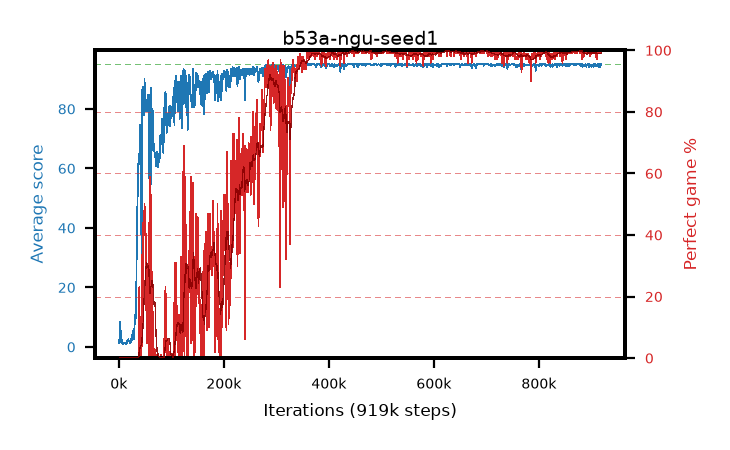
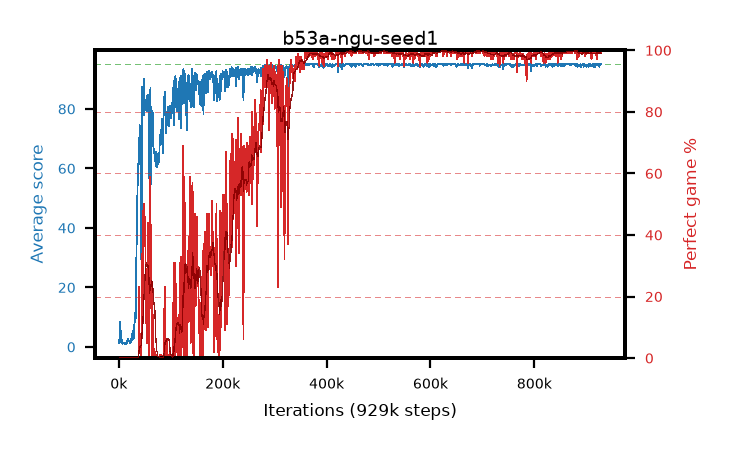
live pictures of 4 arm(s)

diff --git a/results/b53a-ngu-seed1/b53a-ngu-seed1.md b/results/b53a-ngu-seed1/b53a-ngu-seed1.md
@@ -1,6 +1,6 @@
 # b53a-ngu-seed1
 
-step **919,000** · 919 evals · trailing **94.7** · peak **94.96** @643,000 · sef **69.4** · best30 **99.7** @643,000
+step **929,000** · 929 evals · trailing **94.75** · peak **94.96** @643,000 · sef **69.8** · best30 **99.7** @643,000
 
 ## Config
 
@@ -80,15 +80,15 @@ step **919,000** · 919 evals · trailing **94.7** · peak **94.96** @643,000 ·
 | 2000 | 8.43 | 4.84 | 0.0 | 21.0 | 7.201 | 0.0 | 0.4 |
 | 3000 | 8.52 | 6.07 | 0.0 | 26.0 | 5.525 | 0.0 | 0.4 |
 | ... | ... | ... | ... | ... | ... | ... | ... |
-| 908000 | 95.0 | 94.74 | 95.0 | 95.0 | 193.664 | 100.0 | 0.4 |
-| 909000 | 94.78 | 94.75 | 73.0 | 95.0 | 192.456 | 99.0 | 0.4 |
-| 910000 | 94.24 | 94.73 | 30.0 | 95.0 | 189.885 | 97.0 | 0.4 |
-| 911000 | 94.89 | 94.72 | 88.0 | 95.0 | 191.537 | 98.0 | 0.4 |
-| 912000 | 95.0 | 94.72 | 95.0 | 95.0 | 193.706 | 100.0 | 0.4 |
-| 913000 | 94.98 | 94.75 | 93.0 | 95.0 | 192.694 | 99.0 | 0.4 |
-| 914000 | 94.23 | 94.73 | 18.0 | 95.0 | 191.888 | 99.0 | 0.4 |
-| 915000 | 95.0 | 94.73 | 95.0 | 95.0 | 193.699 | 100.0 | 0.4 |
-| 916000 | 94.21 | 94.71 | 16.0 | 95.0 | 191.834 | 99.0 | 0.4 |
-| 917000 | 94.14 | 94.68 | 9.0 | 95.0 | 191.798 | 99.0 | 0.4 |
 | 918000 | 95.0 | 94.7 | 95.0 | 95.0 | 193.687 | 100.0 | 0.4 |
 | 919000 | 95.0 | 94.7 | 95.0 | 95.0 | 193.648 | 100.0 | 0.4 |
+| 920000 | 94.84 | 94.72 | 85.0 | 95.0 | 190.484 | 97.0 | 0.4 |
+| 921000 | 94.98 | 94.73 | 93.0 | 95.0 | 192.679 | 99.0 | 0.4 |
+| 922000 | 94.98 | 94.73 | 93.0 | 95.0 | 192.619 | 99.0 | 0.4 |
+| 923000 | 94.97 | 94.73 | 92.0 | 95.0 | 192.632 | 99.0 | 0.4 |
+| 924000 | 95.0 | 94.73 | 95.0 | 95.0 | 193.698 | 100.0 | 0.4 |
+| 925000 | 94.22 | 94.73 | 17.0 | 95.0 | 191.883 | 99.0 | 0.4 |
+| 926000 | 95.0 | 94.73 | 95.0 | 95.0 | 193.692 | 100.0 | 0.4 |
+| 927000 | 94.63 | 94.74 | 58.0 | 95.0 | 192.321 | 99.0 | 0.4 |
+| 928000 | 94.99 | 94.75 | 94.0 | 95.0 | 192.647 | 99.0 | 0.4 |
+| 929000 | 94.98 | 94.75 | 93.0 | 95.0 | 192.636 | 99.0 | 0.4 |
